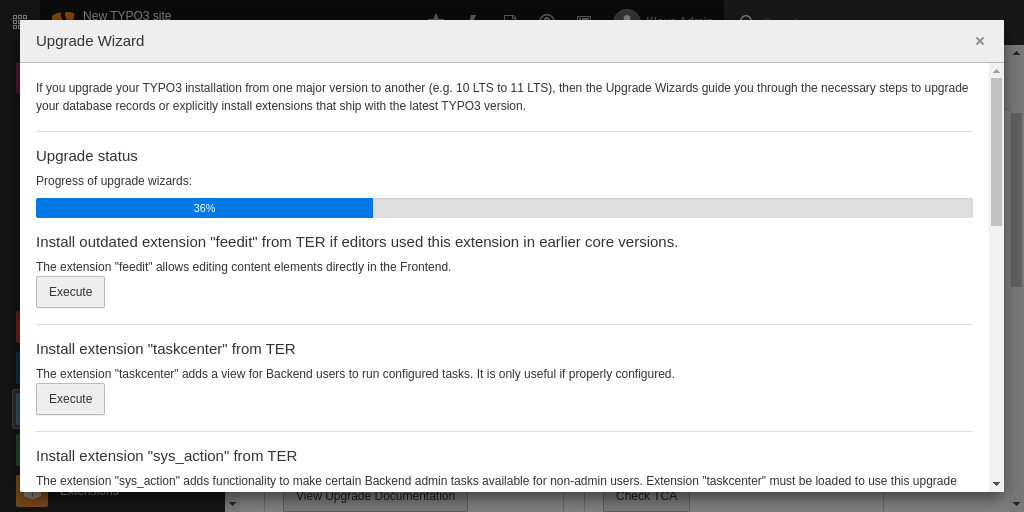
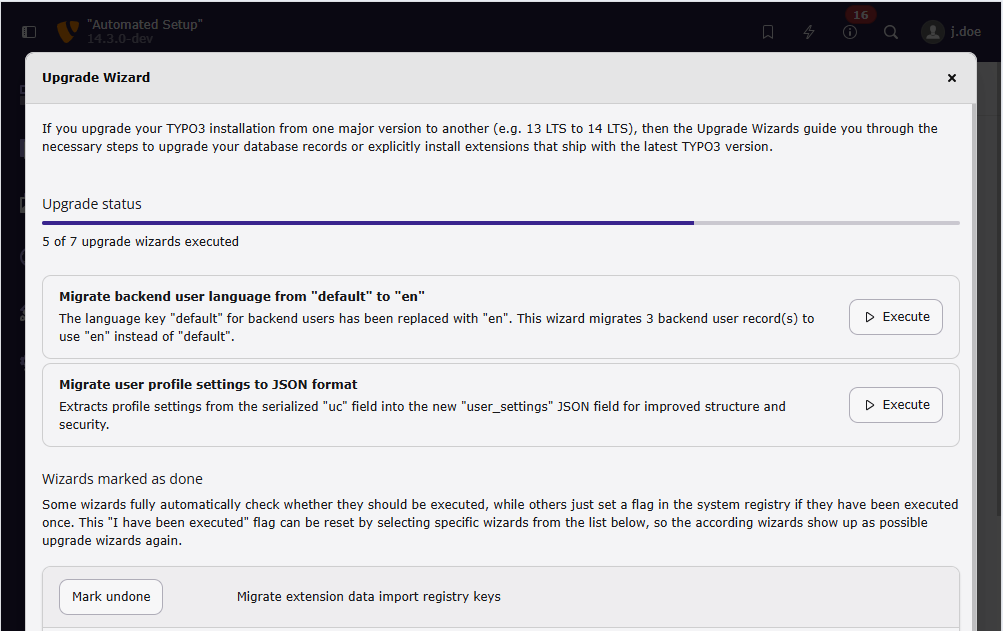
[TASK] Replace upgrade screenshots
Releases: main

diff --git a/Documentation/Administration/Upgrade/Major/PreupgradeTasks/Index.rst b/Documentation/Administration/Upgrade/Major/PreupgradeTasks/Index.rst
@@ -149,8 +149,11 @@ There are 3 different methods you can use to read the changelogs:
 #.  Read the changelog in the :ref:`Extension Scanner <t3coreapi:extension-scanner>`
     (as explained above).
 
-..  include:: /Images/ManualScreenshots/Upgrade/UpgradeAnalysis.rst.txt
+..  figure:: /Images/ManualScreenshots/Upgrade/UpgradeAnalysis.png
+    :alt: Upgrade Analysis
+    :zoom: lightbox
 
+    The "Upgrade Analysis" in the Install Tool
 
 ..  _handling-deprecations:
 ..  _deprecations:

diff --git a/Documentation/Administration/Tools/Upgrade/Index.rst b/Documentation/Administration/Tools/Upgrade/Index.rst
@@ -51,6 +51,12 @@ this function to automatically do patch level TYPO3 Core updates.
 Upgrade wizard
 ==============
 
+..  figure:: /Images/ManualScreenshots/Upgrade/UpgradeWizard.png
+    :alt: Upgrade wizard
+    :zoom: lightbox
+
+    The "Upgrade Wizard" in module :guilabel:`System > Upgrade`
+
 The upgrade wizard should be checked before each major Core or extension upgrade.
 If tasks have been left open they should be resolved before proceeding.
 
